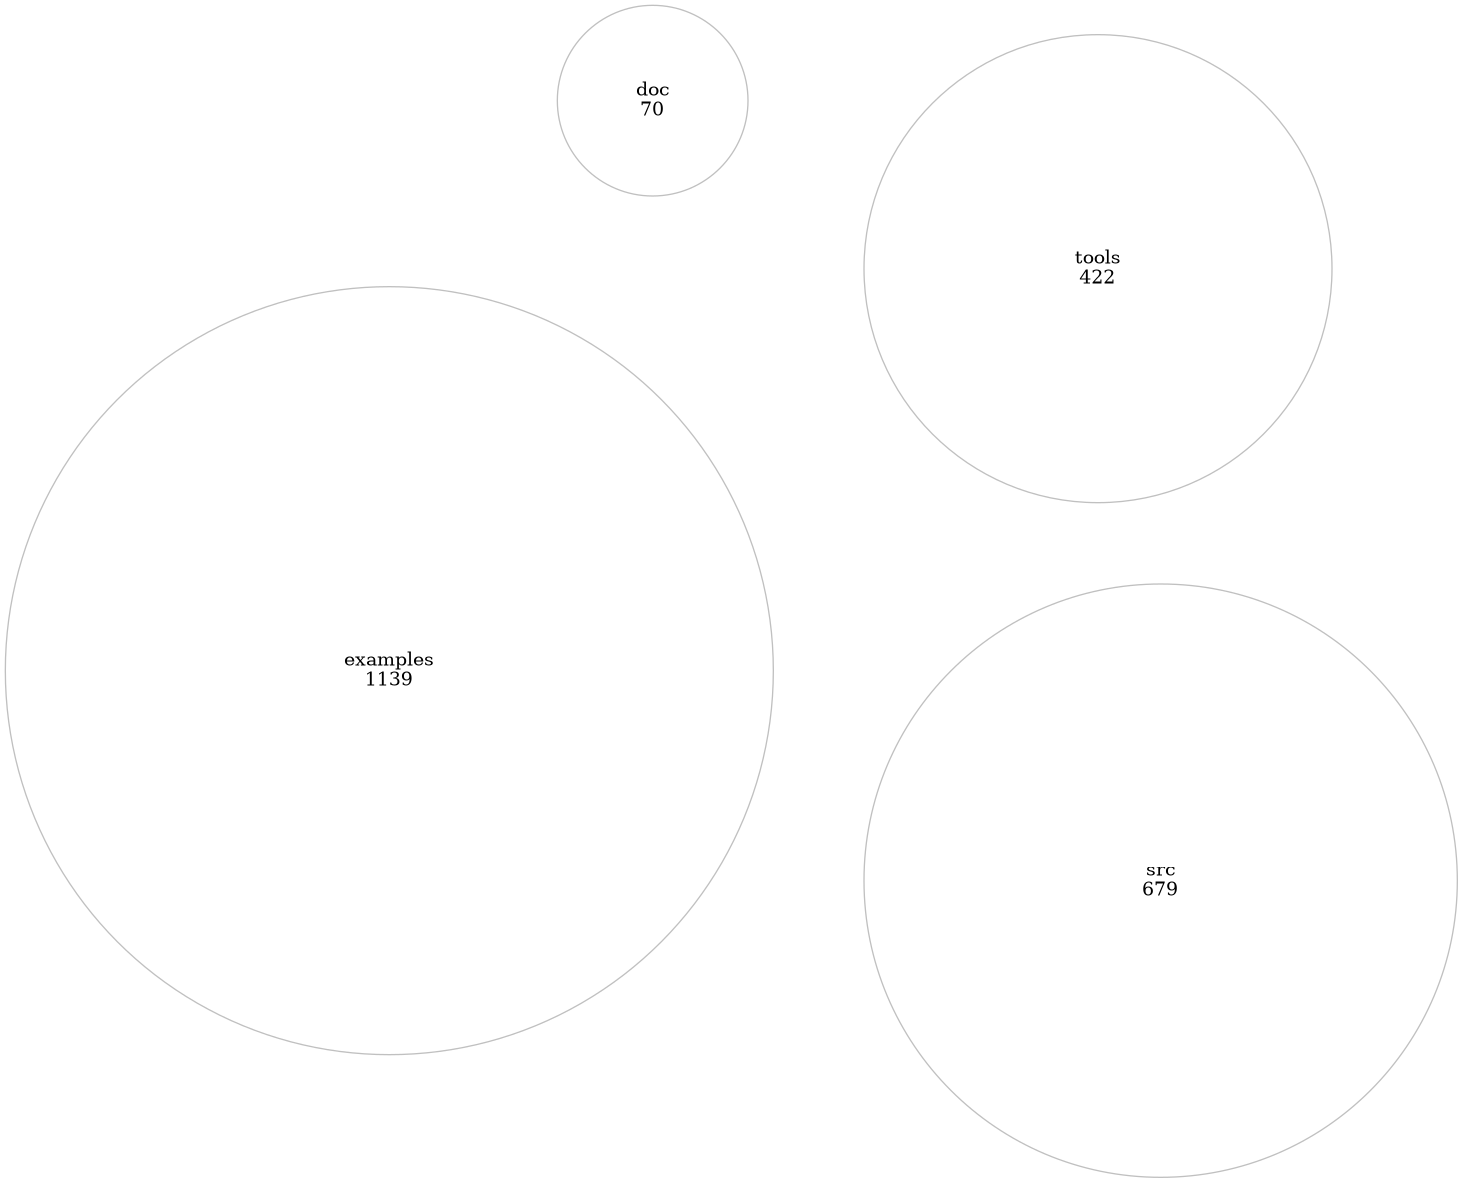
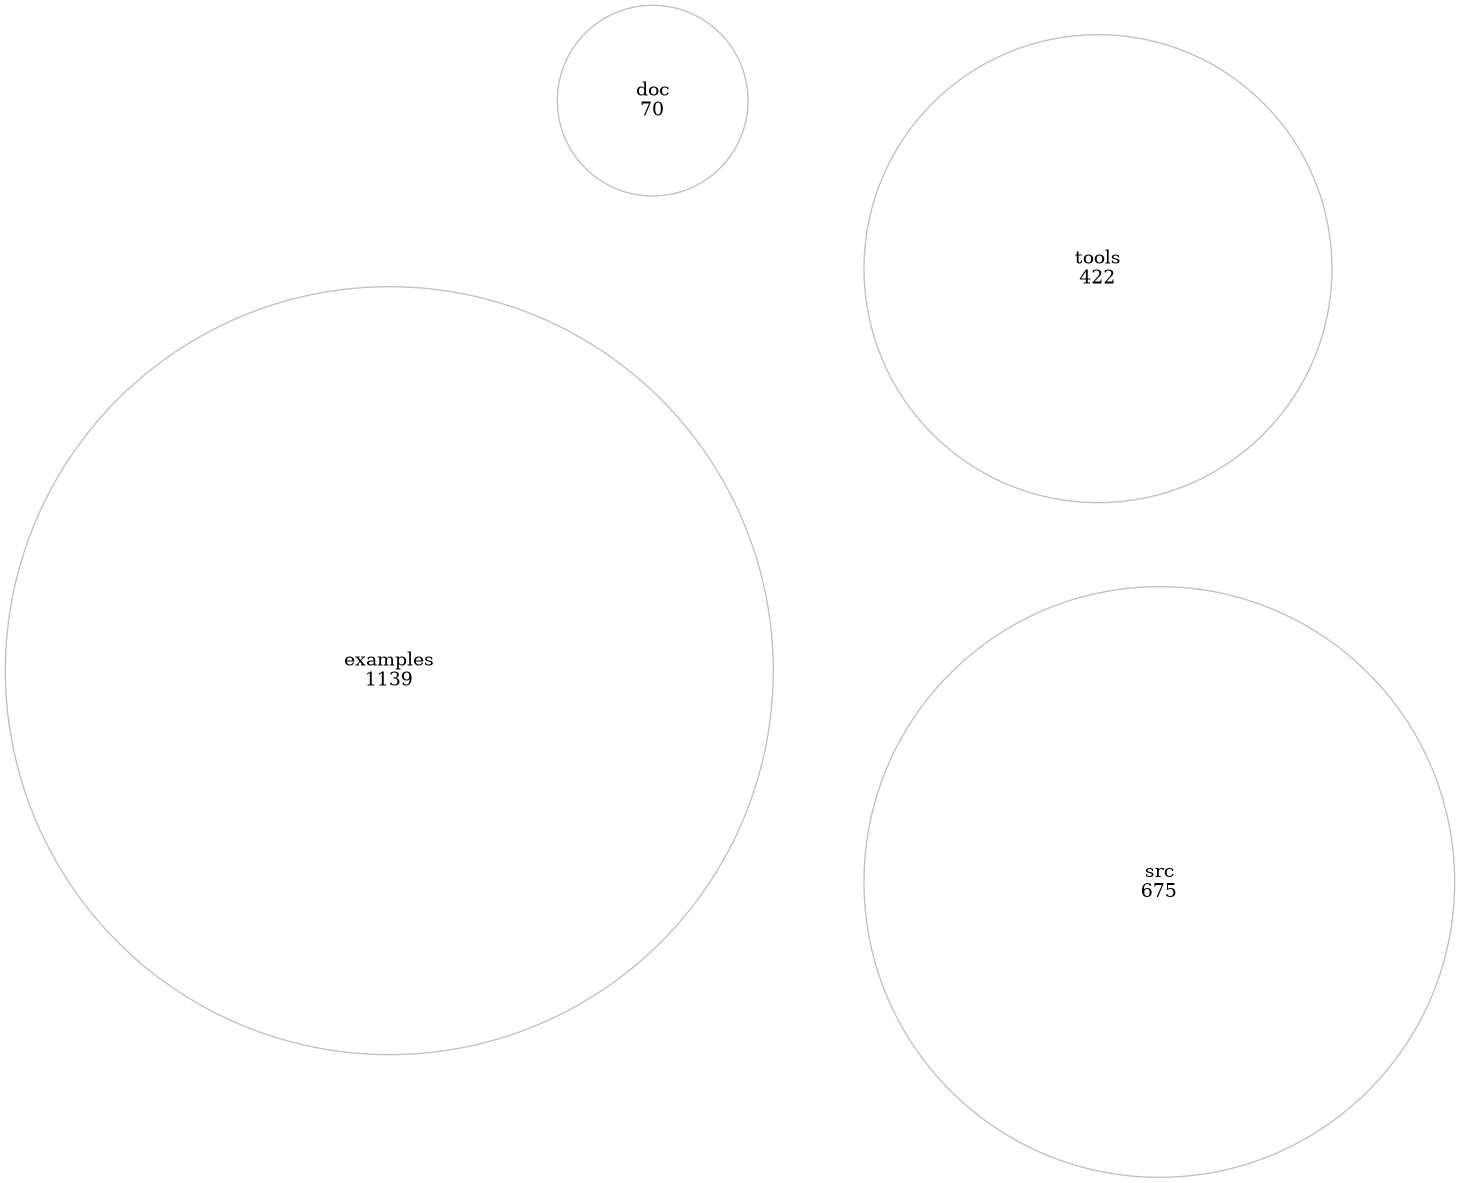
Update README

diff --git a/examples/project/cloc_tree/graphs/_.html b/examples/project/cloc_tree/graphs/_.html
@@ -43,7 +43,7 @@ Project is distributed under the BSD 3-Clause license.
         <img src="_.png" alt="graph" usemap="#_">
 <map id="_" name="_">
 <area shape="circle" id="node1" href="_src.html" title="node: src
-679" alt="" coords="1161,881,296"/>
+675" alt="" coords="1159,882,296"/>
 <area shape="circle" id="node2" href="_tools.html" title="node: tools
 422" alt="" coords="1098,269,234"/>
 <area shape="circle" id="node3" href="_doc.html" title="node: doc
@@ -57,14 +57,14 @@ Project is distributed under the BSD 3-Clause license.
     <pre class="clocsection">--------------------------------------------------------------------------------
 Language                      files          blank        comment           code
 --------------------------------------------------------------------------------
-Python                         2710         172720         225468         739139
+Python                         2710         172720         225472         739135
 JavaScript                      840          20080          22082         122233
 C/C++ Header                    486          13557          24603          75333
 CSV                              30              0              0          36702
 HTML                            124           1940           1753          24670
 JSON                            496              0              0          22630
-Markdown                        196           8290           1623          20365
-Text                             33            285              0           4059
+Markdown                        196           8297           1623          20373
+Text                             33            285              0           4215
 Cython                           11            486            435           2223
 TypeScript                       50            394           1734           2089
 C                                 6            119            167           1838
@@ -90,7 +90,7 @@ make                              3             10              0             25
 C Shell                           1             10              5             12
 Fortran 95                        1              0              1              4
 --------------------------------------------------------------------------------
-SUM:                           5177         218801         278583        1057475
+SUM:                           5177         218808         278587        1057635
 --------------------------------------------------------------------------------</pre>
 </body>
 </html>

diff --git a/examples/project/cloc_tree/graphs/_src.html b/examples/project/cloc_tree/graphs/_src.html
@@ -43,9 +43,9 @@ Project is distributed under the BSD 3-Clause license.
         <img src="_src.png" alt="graph" usemap="#_src">
 <map id="_src" name="_src">
 <area shape="circle" id="node1" href="_src_clocdirtree.html" title="node: clocdirtree
-463" alt="" coords="389,389,384"/>
+459" alt="" coords="389,389,384"/>
 <area shape="circle" id="node2" href="_src_testclocdirtree.html" title="node: testclocdirtree
-166" alt="" coords="1099,687,230"/>
+166" alt="" coords="1100,687,231"/>
 </map>
 
 
@@ -53,11 +53,11 @@ Project is distributed under the BSD 3-Clause license.
     <pre class="clocsection">-------------------------------------------------------------------------------
 Language                     files          blank        comment           code
 -------------------------------------------------------------------------------
-Python                          14            259            247            661
+Python                          14            259            251            657
 Bourne Shell                     3             22             16             17
 Text                             1              1              0              1
 -------------------------------------------------------------------------------
-SUM:                            18            282            263            679
+SUM:                            18            282            267            675
 -------------------------------------------------------------------------------</pre>
 </body>
 </html>

diff --git a/examples/project/cloc_tree/graphs/_src_clocdirtree.html b/examples/project/cloc_tree/graphs/_src_clocdirtree.html
@@ -45,9 +45,9 @@ no subdirs with results
     <pre class="clocsection">-------------------------------------------------------------------------------
 Language                     files          blank        comment           code
 -------------------------------------------------------------------------------
-Python                           8            190            181            463
+Python                           8            190            185            459
 -------------------------------------------------------------------------------
-SUM:                             8            190            181            463
+SUM:                             8            190            185            459
 -------------------------------------------------------------------------------</pre>
 </body>
 </html>

diff --git a/README.md b/README.md
@@ -1,6 +1,21 @@
 # cloc-directory-tree
 
-Navigate cloc results as directory tree.
+Dump cloc data and navigate it as directory tree.
+
+
+Application generates static web page. For example, running it on self source code produces following view:
+
+[![main page](examples/project/cloc_tree/main-page-small.png "main page")](examples/project/cloc_tree/main-page.png)
+
+
+## Running
+
+[There](doc/cmdargs.md) is description of command line arguments.
+
+To run application simply execute followoing command:
+```
+python3 -m clocdirtree.main generate --clocdir <apth-to-source-code> --outdir <path-to-output-dir>
+```
 
 
 ## Installation

diff --git a/doc/cmdargs.md b/doc/cmdargs.md
@@ -3,7 +3,7 @@
 usage: python3 -m clocdirtree.main [-h] [-la] --clocdir CLOCDIR --outdir
                                    OUTDIR [--exclude EXCLUDE [EXCLUDE ...]]
 
-dump cloc data nad navigate it as directory tree
+dump cloc data and navigate it as directory tree
 
 options:
   -h, --help            show this help message and exit
